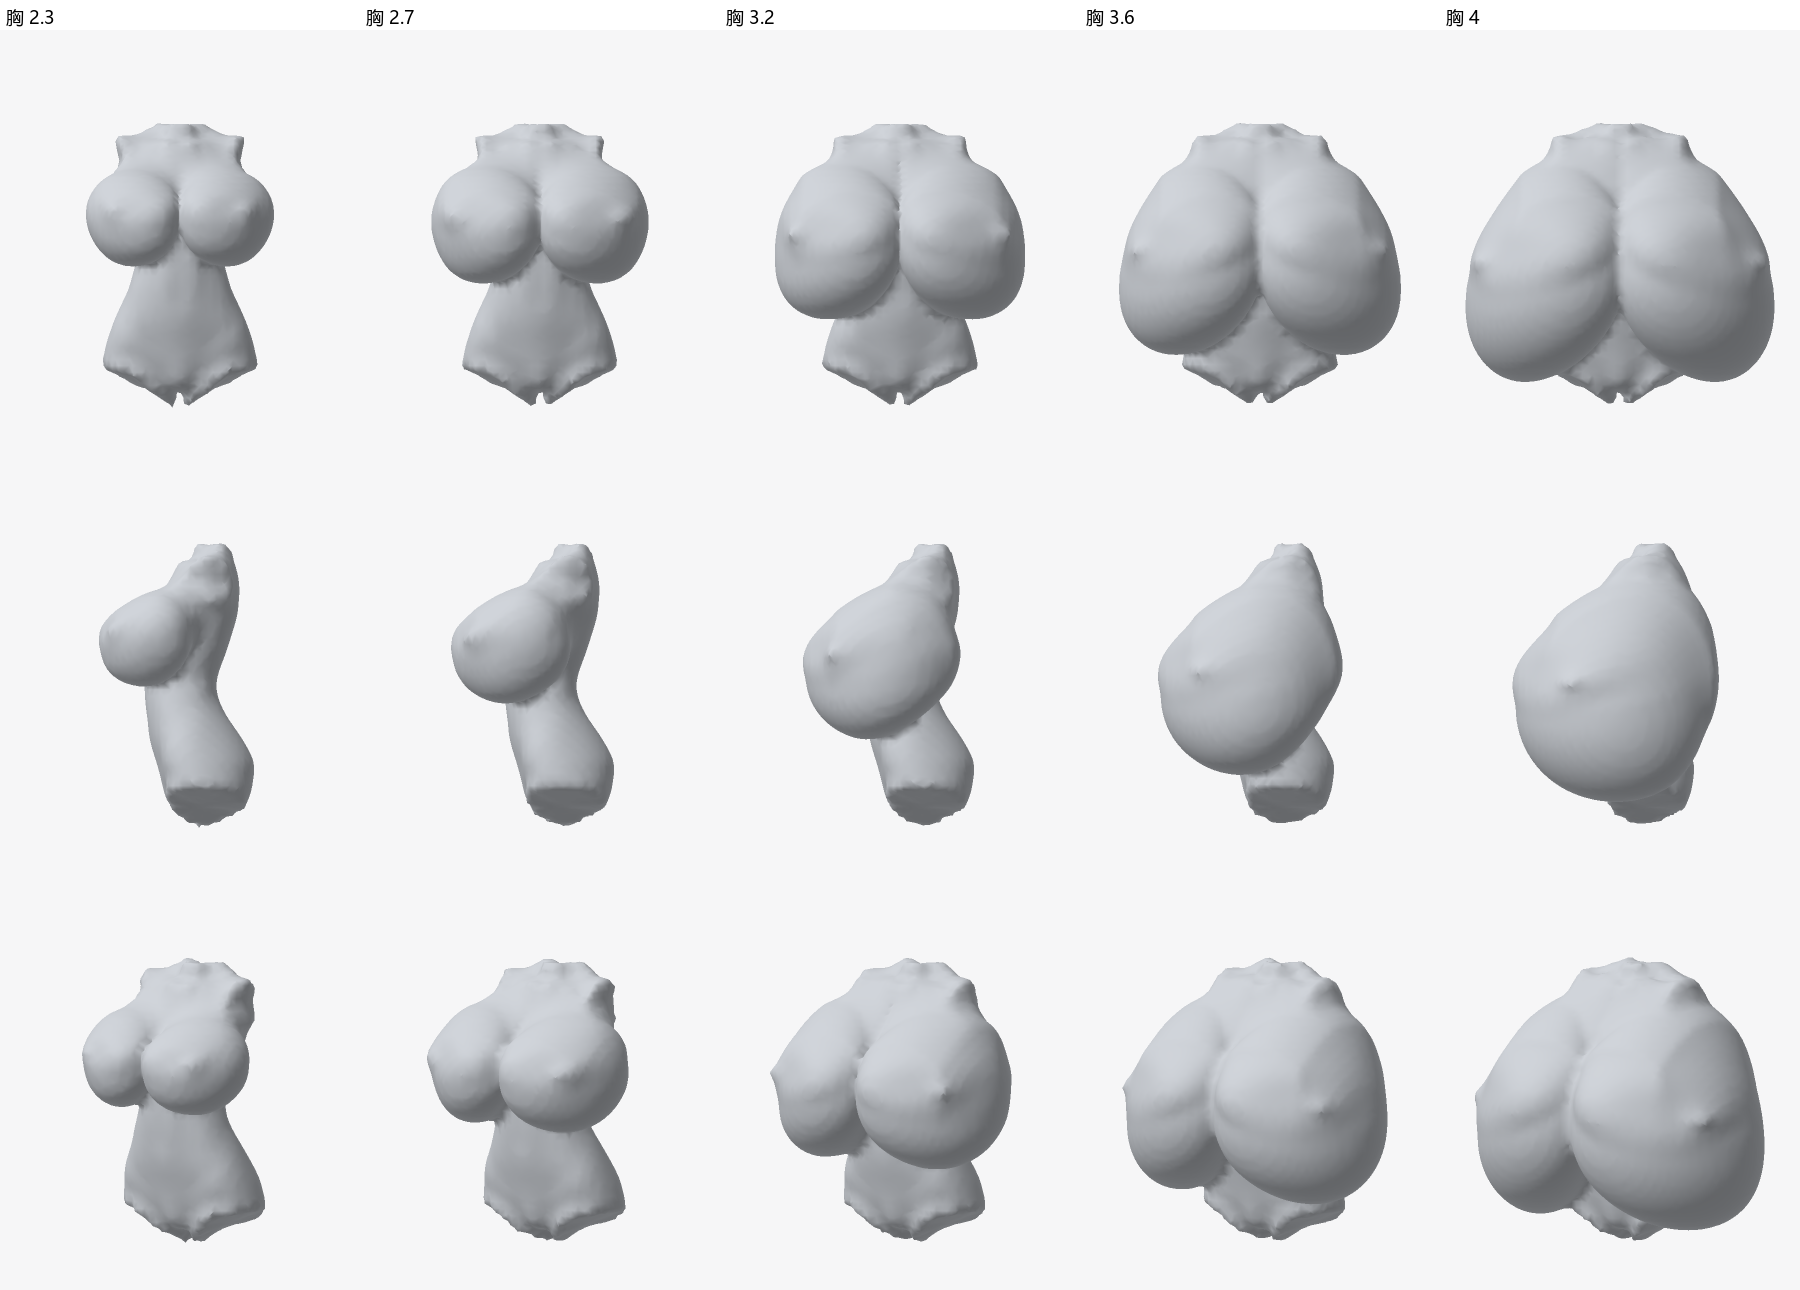
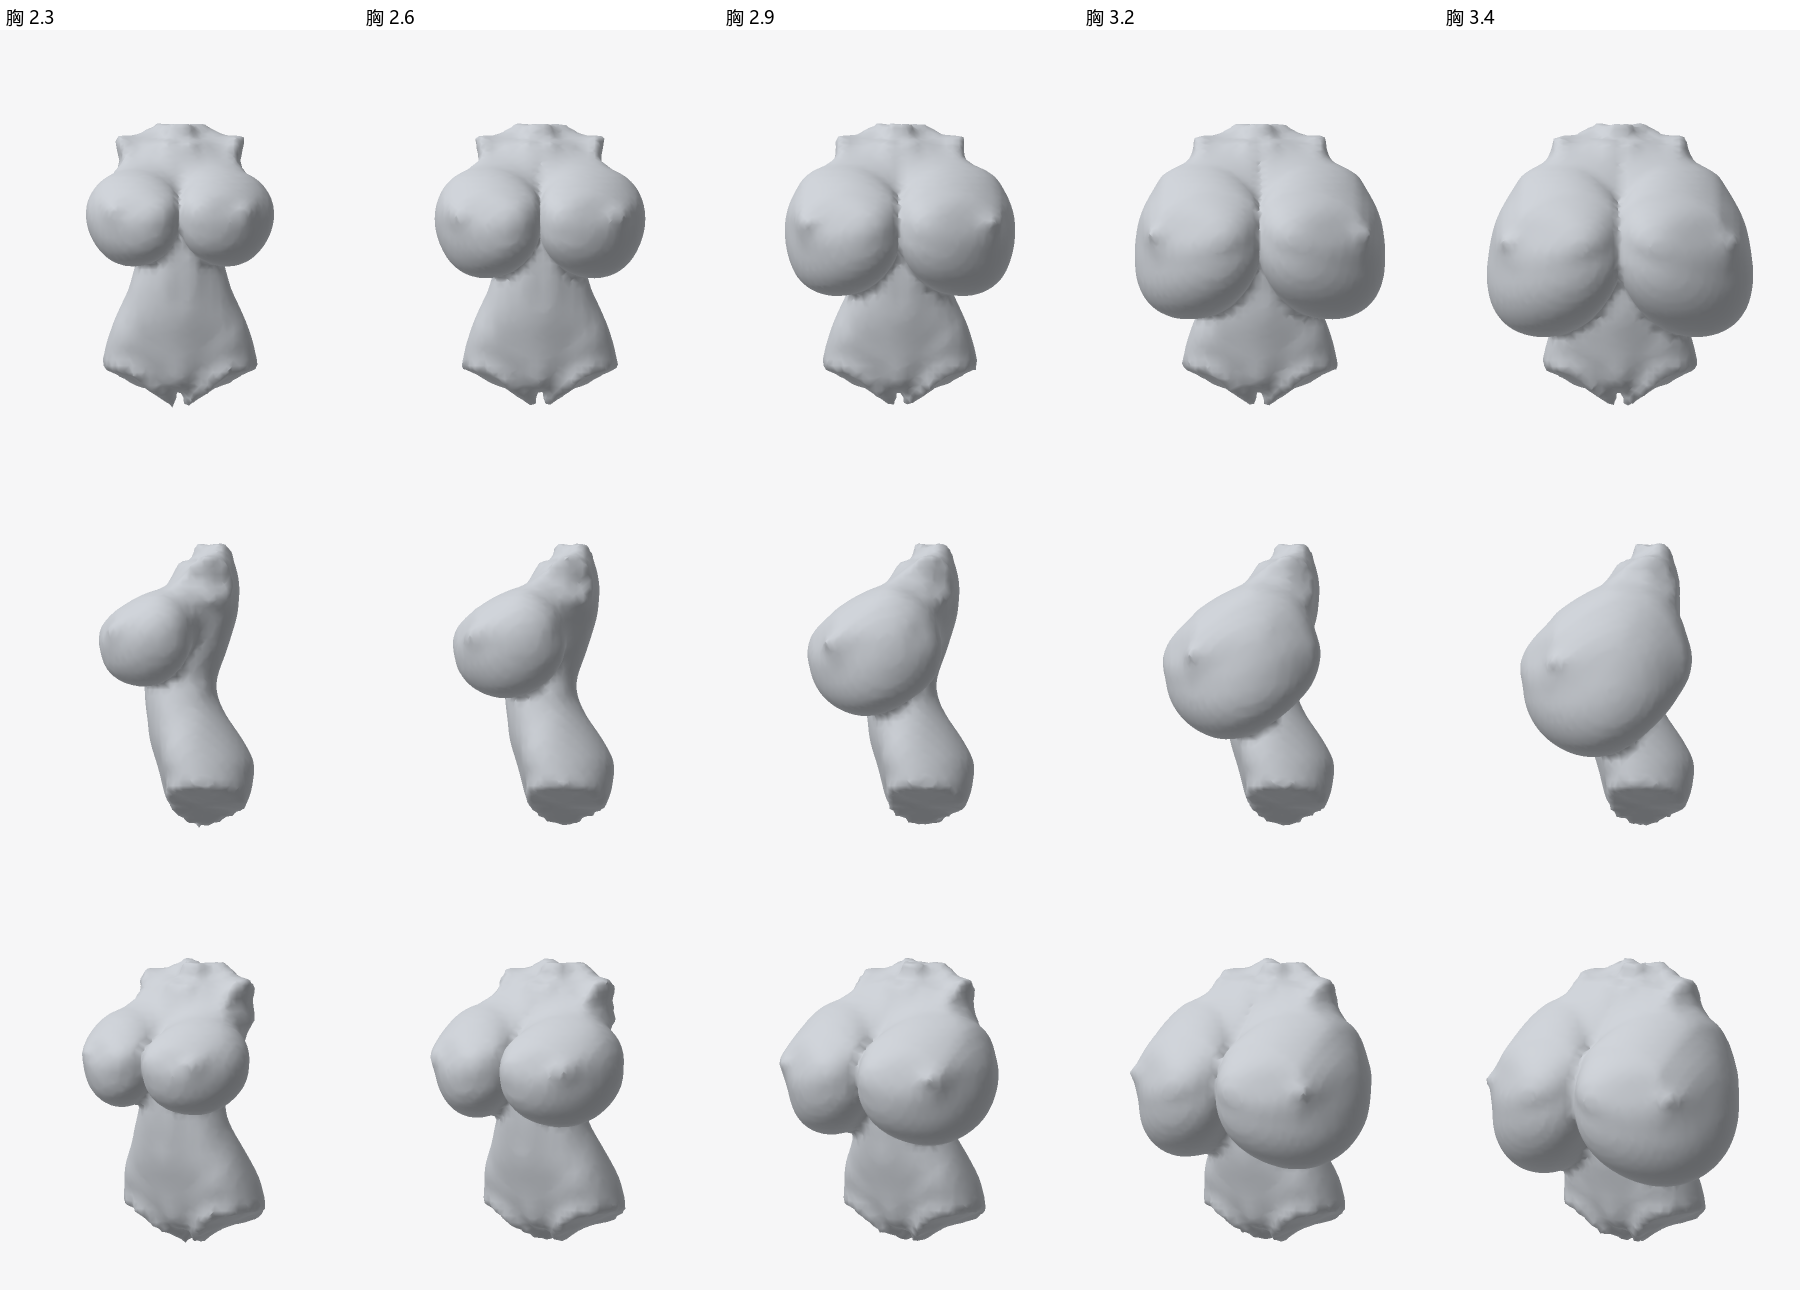
胸部大小上限改成 3.4
他看过 2.3–4 的对比图后说「限制到 3.4 吧」：下垂照旧在 2.3 到 4 之间渐变，各个大小的样子不变，滑块到 3.4 为止。
测试、README 三种语言、docs/rework-plan.md、对比图 docs/bust-sag.png（2.3–3.4）跟着改。

diff --git a/tests/bust.test.ts b/tests/bust.test.ts
@@ -1,6 +1,6 @@
 // 二次元素体的胸：贴在平胸躯干表面上的一层（anime/chest.ts、ChestShape；tools/build-chest.ts 从 CC0 参考模型上采的胸型）
 import { describe, expect, it } from 'vitest';
-import { chestFrame, chestLayers, chestRound, chestSkin, registerChestRound, shell, surfacePoint, zcOf } from '../src/anime/chest';
+import { chestFrame, chestLayers, chestReach, chestRound, chestSkin, registerChestRound, shell, surfacePoint, zcOf } from '../src/anime/chest';
 import { animeGrid } from '../src/anime/body';
 import type { ChestShape, Figure, Part } from '../src/geometry/figure';
 import { buildFigure } from '../src/geometry/layout';
@@ -339,7 +339,7 @@ describe('二次元素体的胸', () => {
   }, 60_000);
 });
 
-describe('胸部大小 2.3 往上（滑块最大 4）：往下垂', () => {
+describe('胸部大小 2.3 往上（滑块最大 3.4）：往下垂', () => {
   useAnimeBody();
   const flat = () => gridDist(getGrid(animeGrid('torsoFlat'))).fn;
   /** 一边的胸比平胸躯干多出来的那一块：体积（升，两边加起来）、上下范围、重心多高；顺便看有没有碰到算胸的范围的边（碰到就是被切掉了） */
@@ -370,28 +370,28 @@ describe('胸部大小 2.3 往上（滑块最大 4）：往下垂', () => {
   };
 
   it('体积接着变大，在 2.3 那里接得上（2.3 以下的样子不变，见上面几项）', () => {
-    const sizes = [2.3, 2.32, 2.6, 3, 3.5, 4];
+    const sizes = [2.3, 2.32, 2.6, 3, 3.4];
     const v = sizes.map((s) => measure(s).liters);
     for (let k = 1; k < v.length; k++) expect(v[k], `胸 ${sizes[k]} 比 ${sizes[k - 1]} 大`).toBeGreaterThan(v[k - 1]);
     // 2.3 到 2.32 只多一点点（体积照三次方长大约多 2.6%）
     expect(v[1] / v[0]).toBeLessThan(1.06);
-    // 4 大约是 2.3 的 (4 / 2.3)³ ≈ 5.3 倍，竖着长得少一点、往下拉长又多一些（量出来 8 倍上下）
-    expect(v[5] / v[0]).toBeGreaterThan(5);
-    expect(v[5] / v[0]).toBeLessThan(10);
+    // 3.4 大约是 2.3 的 (3.4 / 2.3)³ ≈ 3.2 倍，竖着长得少一点、往下拉长又多一些
+    expect(v[4] / v[0]).toBeGreaterThan(3);
+    expect(v[4] / v[0]).toBeLessThan(6);
   }, 120_000);
 
-  it('越大越往下垂：胸底比胸根的下沿垂下去得越多（占整个胸高的比例）；没被算胸的范围切掉', () => {
-    const drop = [2.3, 3.2, 4].map((s) => {
-      const m = measure(s);
-      expect(m.touches, `胸 ${s} 碰到了范围的边`).toBe(false);
-      return (m.rootLo - m.lo) / (m.hi - m.lo);
+  it('越大越往下垂：胸从中心往下伸得比往上多，越大多得越多；没被算胸的范围切掉', () => {
+    const ratio = [2.3, 3, 3.4].map((s) => {
+      expect(measure(s).touches, `胸 ${s} 碰到了范围的边`).toBe(false);
+      const [up, down] = chestReach(s);
+      return down / up;
     });
-    expect(drop[1]).toBeGreaterThan(drop[0] + 0.02);
-    expect(drop[2]).toBeGreaterThan(drop[1]);
+    expect(ratio[1]).toBeGreaterThan(ratio[0] + 0.1);
+    expect(ratio[2]).toBeGreaterThan(ratio[1] + 0.05);
   }, 120_000);
 
   it('左右对称', () => {
-    for (const size of [3, 4]) {
+    for (const size of [3, 3.4]) {
       const left = chestSkin(nativeChest(size));
       const right = chestSkin(nativeChest(size, -1));
       for (let i = 0; i < 200; i++) {

diff --git a/src/anime/chest.ts b/src/anime/chest.ts
@@ -254,7 +254,8 @@ export function registerChestRound(round: ChestRound | null) {
 }
 
 /**
- * 往大了调略微下垂（11-15 他要的：滑块上限 2.3 提到 4，往大了调「形状更自然、略微下垂」，不是照原样放大的圆球）。
+ * 往大了调略微下垂（11-15 他要的：滑块上限 2.3 往上提（先提到 4，看过图后定在 3.4），往大了调「形状更自然、略微下垂」，不是照原样放大的圆球）。
+ * 下垂照 2.3 到 SAG_FULL（4）渐变，滑块到 3.4 为止（垂了七成），各个大小的样子和定上限前给他看的图一样。
  * 照二次元画法的参考（侧面：上半截从胸口斜下来，下半截圆鼓鼓地兜着、最低处垂过胸下褶，乳头偏下、朝前下方）：
  * 2.3（以前滑块的最大）以下不变；往上椭球竖着拉长、拉长的那一截往下长（上沿不动），胸尖往下歪，到 SAG_FULL 垂足；
  * 椭球照磨平的展开图贴（见 smoothFrame），不然垂到肋骨那一段的胸面跟着肋骨一道道起伏。
@@ -338,7 +339,7 @@ const ease = (t: number) => (t <= 0 ? 0 : t >= 1 ? 1 : t * t * (3 - 2 * t));
 
 /**
  * 滑块上的胸：CHEST_FLAT 以下是平胸；往上先是中胸（放大倍数照开方变，再和平胸按比例混合：往小调主要是往平胸里沉，
- * 不缩成一小团）；中胸到大胸之间两种胸型渐变；再往上照大胸放大，2.3 往上略微下垂（见 SAG_FROM，滑块最大 4）。
+ * 不缩成一小团）；中胸到大胸之间两种胸型渐变；再往上照大胸放大，2.3 往上略微下垂（见 SAG_FROM，滑块最大 3.4）。
  * fade：和平胸混合时胸占多少
  */
 export function chestLayers(size: number): { layers: Layer[]; fade: number } {

diff --git a/src/model/spec.ts b/src/model/spec.ts
@@ -136,7 +136,7 @@ export interface ShapeDef {
   safe?: [min: number, max: number];
 }
 
-/** 胸部大小滑块 2.2 以上（到 4）只有二次元素体照着变大，2.3 以上还往下垂（见 anime/chest.ts 的 SAG_FROM）；白模人台、成品角色到 2.2 为止 */
+/** 胸部大小滑块 2.2 以上（到 3.4）只有二次元素体照着变大，2.3 以上还往下垂（见 anime/chest.ts 的 SAG_FROM）；白模人台、成品角色到 2.2 为止 */
 export const BUST_MAX_OTHER = 2.2;
 
 export const SHAPE_DEFS: readonly ShapeDef[] = [
@@ -144,7 +144,7 @@ export const SHAPE_DEFS: readonly ShapeDef[] = [
   { key: 'headRatio', label: t('头身比'), min: 6, max: 9, step: 0.1, def: 7.5 },
   { key: 'build', label: t('体格'), min: 0.7, max: 1.5, step: 0.01, def: 1, safe: [0.8, 1.3] },
   { key: 'shoulders', label: t('肩宽'), min: 0.75, max: 1.6, step: 0.01, def: 1, safe: [0.85, 1.3] },
-  { key: 'bust', label: t('胸部大小'), min: 0.3, max: 4, step: 0.01, def: 1, safe: [0.3, 1.6] },
+  { key: 'bust', label: t('胸部大小'), min: 0.3, max: 3.4, step: 0.01, def: 1, safe: [0.3, 1.6] },
   { key: 'waist', label: t('腰宽'), min: 0.7, max: 1.6, step: 0.01, def: 1, safe: [0.8, 1.3] },
   { key: 'hips', label: t('胯宽'), min: 0.7, max: 1.8, step: 0.01, def: 1, safe: [0.8, 1.4] },
   { key: 'limbs', label: t('四肢粗细'), min: 0.5, max: 2, step: 0.01, def: 1, safe: [0.8, 1.3] },

diff --git a/docs/rework-plan.md b/docs/rework-plan.md
@@ -258,13 +258,13 @@
 
 他（经做「前后排」的会话转来）说「提高倍数上限，再往大了调的时候改成形状更自然略微下垂的胸」，参考图 `refs/rows-front-side.jpg`（一只胸 22 cm 宽上下）。以前滑块最大 2.3，一只胸 17 cm 宽。
 
-1. **上限 2.3 → 4**（`model/spec.ts`）。2.2 以上只有二次元素体照着变大，白模人台、成品角色到 2.2 为止（`BUST_MAX_OTHER` 没动）。3.0 时一只胸约 21.5 cm 宽，和参考图差不多；4 是留的余量。
+1. **上限 2.3 → 3.4**（`model/spec.ts`）。2.2 以上只有二次元素体照着变大，白模人台、成品角色到 2.2 为止（`BUST_MAX_OTHER` 没动）。3.0 时一只胸约 21.5 cm 宽，和参考图差不多。先提到 4，他看过 2.3–4 的对比图后说「限制到 3.4 吧」（3.6 以上正面还有淡痕、到 4 和上臂根部碰）；下垂照旧在 2.3 到 4 之间渐变（3.4 垂了七成），各个大小的样子不变。
 2. **2.3 往上略微下垂**（`anime/chest.ts` 的 `SAG_FROM`…`SAG_FULL`，2.3 到 4 渐变）。参考二次元画法（侧面上半截从胸口斜下来、下半截圆鼓鼓兜着、乳头偏下；正面吊钟型）：往圆里变的椭球竖着拉长 35%、拉长的那截全往下长（上沿不动），胸尖往下歪 20°；横着、竖着、往前照 `size / 2.3` 的 1、0.9、1 次方放大（等比的话到 4 一只胸 37 cm 高、胸根长到锁骨）；参考胸型的分量减到 0（照原样放大到那么大边上是方的）。2.3 以下一点不变（原来的测试都照旧过）。
 3. **胸面上的横褶**：下垂的胸垂到肋骨那一段，胸面跟着躯干表面的肋骨、腹肌一道道起伏——胸是按「离平胸表面多远」贴的，离表面 20 cm 外照样复制那些起伏。下垂的椭球改照磨平的展开图贴（`smoothFrame`，竖着 σ 10 cm、横着 σ 30°），照下垂的程度渐变过去。
 
 试过不用的：椭球上下两半半径不一样（以为褶是它带出来的）；他让下载现成模型改造，下了 Sketchfab 上三个 CC BY 的（写实女性躯干、二次元大胸素体、写实胸部练习稿，原件在 `assets/source/sketchfab-busts/`，没进仓库），用写实躯干的胸（自然下垂的水滴形）采成第三种胸型、2.3 往上渐变过去——中等大小的胸放大三四倍成了竖着的一长条，按三个方向分开放大又成了从锁骨斜下来的大锥子，大胸不是中胸放大出来的，没用上。二次元那个胸上雕着比基尼的棱。
 
-对比图 [docs/bust-sag.png](bust-sag.png)（2.3、2.7、3.2、3.6、4；正面、侧面、斜前）。4 的时候胸外上沿和抬起来的上臂根部碰一点（1.6 以上本来就不保证不穿模），3.6 以上正面还有很淡的一两道痕。
+对比图 [docs/bust-sag.png](bust-sag.png)（2.3、2.6、2.9、3.2、3.4；正面、侧面、斜前）。
 
 ## 风险和应对
 

diff --git a/README.ja.md b/README.ja.md
@@ -178,7 +178,7 @@
 
 - 複数の頭・腕・胸、尻尾、翼、各種の下半身、手動微調整、ボーン、すべての書き出し形式がそのまま使えます。書き出しもひとつながりの閉じたメッシュです。
 - 体型スライダーは、素体の元の形を広げたり絞ったりする形で効きます。性別と手のスタイルは効きません。
-- **バスト** 0.3〜4：小さくするほど徐々に平らになり、大きくすると、素体の小さい胸と別の素体の大きい胸という2種類の胸型の間で徐々に変化します。2.3 を超えると徐々に垂れていきます（横から見ると垂れ下がったしずく形）。マネキンと完成キャラクターは 2.2 までです。
+- **バスト** 0.3〜3.4：小さくするほど徐々に平らになり、大きくすると、素体の小さい胸と別の素体の大きい胸という2種類の胸型の間で徐々に変化します。2.3 を超えると徐々に垂れていきます（横から見ると垂れ下がったしずく形）。マネキンと完成キャラクターは 2.2 までです。
 - 手と足は既製のメッシュで、融合のあと、手首と足首に縫い合わせます。そのため、どの精度でも指とつま先は分かれています。
 - **書き出したモデルを配布するときは、クレジット表記が必要です。**[素材とクレジット表記](#素材とクレジット表記)を参照してください。
 

diff --git a/README.en.md b/README.en.md
@@ -190,7 +190,7 @@ The head, torso, breasts, arms and legs are replaced with the shape of a ready-m
 
 - Multiple heads, arms and breasts, tails, wings, all kinds of lower bodies, manual tweaks, bones and every export format work as usual, and the export is still one closed mesh.
 - The body-shape sliders widen or narrow the base body from its original shape; gender and hand style have no effect on it.
-- **Bust size** 0.3–4: toward smaller it gradually flattens; toward larger it blends between two breast shapes, this base body's small one and another base body's large one; above 2.3 the breasts gradually droop (a hanging teardrop from the side). The mannequin and the finished characters stop at 2.2.
+- **Bust size** 0.3–3.4: toward smaller it gradually flattens; toward larger it blends between two breast shapes, this base body's small one and another base body's large one; above 2.3 the breasts gradually droop (a hanging teardrop from the side). The mannequin and the finished characters stop at 2.2.
 - Hands and feet are ready-made meshes that are sewn on at the wrists and ankles after fusing, so fingers and toes stay separate at any precision.
 - **Models exported with this style must be credited when you share them**; see [Assets and attribution](#assets-and-attribution).
 

diff --git a/README.md b/README.md
@@ -176,7 +176,7 @@
 
 - 多头、多臂、多胸、尾巴、翅膀、各种下身、手动微调、骨骼、全部导出格式都照常能用，导出的也是一整块封闭的网格。
 - 体型滑块是在素体原来的样子上拉宽、压窄；性别、手的样式对它不起作用。
-- **胸部大小** 0.3–4：往小渐渐变平，往大在素体的小胸和另一个素体的大胸两种胸型之间渐变；2.3 往上胸渐渐往下垂（侧面像挂下来的水滴）。白模人台、成品角色到 2.2 为止。
+- **胸部大小** 0.3–3.4：往小渐渐变平，往大在素体的小胸和另一个素体的大胸两种胸型之间渐变；2.3 往上胸渐渐往下垂（侧面像挂下来的水滴）。白模人台、成品角色到 2.2 为止。
 - 手和脚是现成的网格，融合完以后在手腕、脚踝处缝上去，所以什么精度下手指、脚趾都是分开的。
 - **导出的模型发出去时要署名**，见[素材和署名](#素材和署名)。
 
